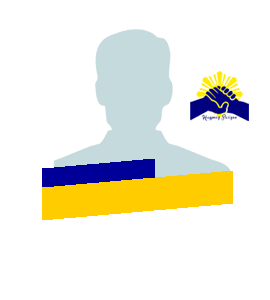
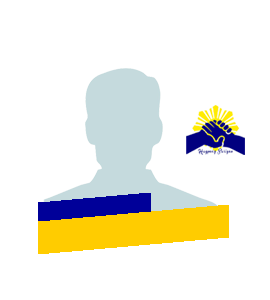
redesign candidate image and add header 3 and 4

diff --git a/resources/views/index.blade.php b/resources/views/index.blade.php
@@ -20,33 +20,33 @@
     <div class="candidate w-224 m-negmargin-5"><a href="{{ url('/johnny-t-pimentel') }}"><img src="{{ asset('/assets/images/johnny.png') }}" alt="Johnny T. Pimentel" title="Johnny T. Pimentel"></a></div>
 
     <div class="clear"></div>
-    <div class="candidate w-224 negmargin-5"><a href="{{ url('/vj-pimentel') }}"><img src="{{ asset('/assets/images/sample1.png') }}" alt="Vj Pimentel" title="Vj Pimentel"></a></div>
-    <div class="candidate w-224 negmargin-5"><a href="{{ url('/philip-pichay') }}"><img src="{{ asset('/assets/images/sample2.png') }}" alt="Philip Pichay" title="Philip Pichay"></a></div>
-    <div class="candidate w-224 negmargin-5"><a href="{{ url('/mary-grace-kimura') }}"><img src="{{ asset('/assets/images/sample3.png') }}" alt="Mary Grace S. Kimura" title="Mary Grace S. Kimura"></a></div>
+    <div class="candidate w-224 negmargin-5"><a href="{{ url('/vj-pimentel') }}"><img src="{{ asset('/assets/images/vjpimentel.png') }}" alt="Vj Pimentel" title="Vj Pimentel"></a></div>
+    <div class="candidate w-224 negmargin-5"><a href="{{ url('/philip-pichay') }}"><img src="{{ asset('/assets/images/philippichay.png') }}" alt="Philip Pichay" title="Philip Pichay"></a></div>
+    <div class="candidate w-224 negmargin-5"><a href="{{ url('/mary-grace-kimura') }}"><img src="{{ asset('/assets/images/marygracekimura.png') }}" alt="Mary Grace S. Kimura" title="Mary Grace S. Kimura"></a></div>
 
     <div class="clear"></div>
-    <div class="candidate w-224 negmargin-5"><a href="{{ url('/jane-plaza') }}"><img src="{{ asset('/assets/images/sample1.png') }}" alt="Jane V. Plaza" title="Jane V. Plaza"></a></div>
-    <div class="candidate w-224 negmargin-5"><a href="{{ url('/marvin-azarcon') }}"><img src="{{ asset('/assets/images/sample2.png') }}" alt="Marvin T. Azarcon" title="Marvin T. Azarcon"></a></div>
-    <div class="candidate w-224 negmargin-5"><a href="{{ url('/dennis-yu') }}"><img src="{{ asset('/assets/images/sample3.png') }}" alt="Dennis Yu" title="Dennis Yu"></a></div>
-    <div class="candidate w-224 negmargin-5"><a href="{{ url('/roxanne-pimentel') }}"><img src="{{ asset('/assets/images/sample4.png') }}" alt="Roxanne Pimentel" title="Roxanne Pimentel"></a></div>
+    <div class="candidate w-224 negmargin-5"><a href="{{ url('/jane-plaza') }}"><img src="{{ asset('/assets/images/janeplaza.png') }}" alt="Jane V. Plaza" title="Jane V. Plaza"></a></div>
+    <div class="candidate w-224 negmargin-5"><a href="{{ url('/marvin-azarcon') }}"><img src="{{ asset('/assets/images/marvinazarcon.png') }}" alt="Marvin T. Azarcon" title="Marvin T. Azarcon"></a></div>
+    <div class="candidate w-224 negmargin-5"><a href="{{ url('/dennis-yu') }}"><img src="{{ asset('/assets/images/dennisyu.png') }}" alt="Dennis Yu" title="Dennis Yu"></a></div>
+    <div class="candidate w-224 negmargin-5"><a href="{{ url('/roxanne-pimentel') }}"><img src="{{ asset('/assets/images/roxannepimentel.png') }}" alt="Roxanne Pimentel" title="Roxanne Pimentel"></a></div>
 
     <div class="clear"></div>
-    <div class="candidate w-224 negmargin-5"><a href="{{ url('/henrich-pimentel') }}"><img src="{{ asset('/assets/images/sample1.png') }}" alt="Henrich Pimentel" title="Henrich Pimentel"></a></div>
-    <div class="candidate w-224 negmargin-5"><a href="{{ url('/poly-lozada') }}"><img src="{{ asset('/assets/images/sample2.png') }}" alt="Poly Lozada" title="Poly Lozada"></a></div>
-    <div class="candidate w-224 negmargin-5"><a href="{{ url('/glenn-batiansila') }}"><img src="{{ asset('/assets/images/sample3.png') }}" alt="Glenn Batiansila" title="Glenn Batiansila"></a></div>
-    <div class="candidate w-224 negmargin-5"><a href="{{ url('/dodoy-fazon') }}"><img src="{{ asset('/assets/images/sample4.png') }}" alt="Dodoy Fazon" title="Dodoy Fazon"></a></div>
+    <div class="candidate w-224 negmargin-5"><a href="{{ url('/henrich-pimentel') }}"><img src="{{ asset('/assets/images/henrichpimentel.png') }}" alt="Henrich Pimentel" title="Henrich Pimentel"></a></div>
+    <div class="candidate w-224 negmargin-5"><a href="{{ url('/poly-lozada') }}"><img src="{{ asset('/assets/images/polylozada.png') }}" alt="Poly Lozada" title="Poly Lozada"></a></div>
+    <div class="candidate w-224 negmargin-5"><a href="{{ url('/glenn-batiansila') }}"><img src="{{ asset('/assets/images/glennbatiansila.png') }}" alt="Glenn Batiansila" title="Glenn Batiansila"></a></div>
+    <div class="candidate w-224 negmargin-5"><a href="{{ url('/dodoy-fazon') }}"><img src="{{ asset('/assets/images/dodoyfazon.png') }}" alt="Dodoy Fazon" title="Dodoy Fazon"></a></div>
 
     <div class="clear"></div>
-    <div class="candidate w-224 negmargin-5"><a href="{{ url('/nicolas-alameda') }}"><img src="{{ asset('/assets/images/sample1.png') }}" alt="Nicolas Alameda" title="Nicolas Alameda"></a></div>
-    <div class="candidate w-224 negmargin-5"><a href="{{ url('/kid-pedrozo') }}"><img src="{{ asset('/assets/images/sample2.png') }}" alt="Kid Pedrozo" title="Kid Pedrozo"></a></div>
-    <div class="candidate w-224 negmargin-5"><a href="{{ url('/joey-pama') }}"><img src="{{ asset('/assets/images/sample3.png') }}" alt="Joey Pama" title="Joey Pama"></a></div>
-    <div class="candidate w-224 negmargin-5"><a href="{{ url('/shem-gray') }}"><img src="{{ asset('/assets/images/sample4.png') }}" alt="Shem Garay" title="Shem Garay"></a></div>
+    <div class="candidate w-224 negmargin-5"><a href="{{ url('/nicolas-alameda') }}"><img src="{{ asset('/assets/images/nicolasalameda.png') }}" alt="Nicolas Alameda" title="Nicolas Alameda"></a></div>
+    <div class="candidate w-224 negmargin-5"><a href="{{ url('/kid-pedrozo') }}"><img src="{{ asset('/assets/images/kidpedrozo.png') }}" alt="Kid Pedrozo" title="Kid Pedrozo"></a></div>
+    <div class="candidate w-224 negmargin-5"><a href="{{ url('/joey-pama') }}"><img src="{{ asset('/assets/images/joeypama.png') }}" alt="Joey Pama" title="Joey Pama"></a></div>
+    <div class="candidate w-224 negmargin-5"><a href="{{ url('/shem-gray') }}"><img src="{{ asset('/assets/images/shemgaray.png') }}" alt="Shem Garay" title="Shem Garay"></a></div>
 
     <div class="clear"></div>
-    <div class="candidate w-224 negmargin-5"><a href="{{ url('/enchiong-garay') }}"><img src="{{ asset('/assets/images/sample1.png') }}" alt="Enciong Garay" title="Enciong Garay"></a></div>
-    <div class="candidate w-224 negmargin-5"><a href="{{ url('/boyet-evangelio') }}"><img src="{{ asset('/assets/images/sample2.png') }}" alt="Boyet Evangelio" title="Boyet Evangelio"></a></div>
-    <div class="candidate w-224 negmargin-5"><a href="{{ url('/michael-corilla') }}"><img src="{{ asset('/assets/images/sample3.png') }}" alt="Michael T. Corilla" title="Michael T. Corilla"></a></div>
-    <div class="candidate w-224 negmargin-5"><a href="{{ url('/generoso-naraiso') }}"><img src="{{ asset('/assets/images/sample4.png') }}" alt="Generoso L. Naraiso" title="Generoso L. Naraiso"></a></div>
+    <div class="candidate w-224 negmargin-5"><a href="{{ url('/enchiong-garay') }}"><img src="{{ asset('/assets/images/enchionggaray.png') }}" alt="Enciong Garay" title="Enciong Garay"></a></div>
+    <div class="candidate w-224 negmargin-5"><a href="{{ url('/boyet-evangelio') }}"><img src="{{ asset('/assets/images/boyetevangelio.png') }}" alt="Boyet Evangelio" title="Boyet Evangelio"></a></div>
+    <div class="candidate w-224 negmargin-5"><a href="{{ url('/michael-corilla') }}"><img src="{{ asset('/assets/images/michaelcorilla.png') }}" alt="Michael T. Corilla" title="Michael T. Corilla"></a></div>
+    <div class="candidate w-224 negmargin-5"><a href="{{ url('/evelyn-naraiso') }}"><img src="{{ asset('/assets/images/evelynnaraiso.png') }}" alt="Evelyn Naraiso" title="Evelyn Naraiso"></a></div>
     <div class="clear"></div>
     </div>
 

diff --git a/resources/views/layouts/app.blade.php b/resources/views/layouts/app.blade.php
@@ -36,10 +36,10 @@
                 <img src="{{ asset('/assets/images/header1.jpg') }}" alt="">
             </div>
             <div class="carousel-item">
-                <img src="{{ asset('/assets/images/header3.jpg') }}" alt="">
+                <img src="{{ asset('/assets/images/header4.jpg') }}" alt="">
             </div>
             <div class="carousel-item">
-                <img src="{{ asset('/assets/images/4.jpg') }}" alt="">
+                <img src="{{ asset('/assets/images/header3.jpg') }}" alt="">
             </div>
         </div>
     </div>
